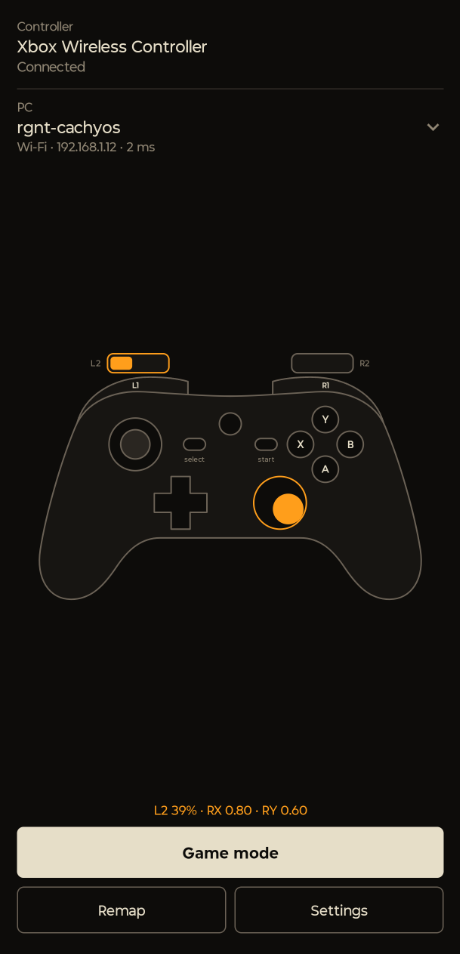
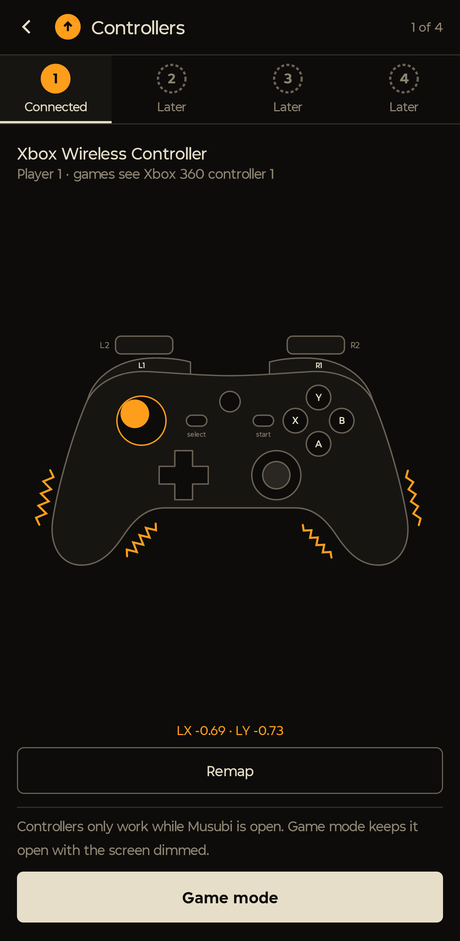
Musubi 0.7.0

diff --git a/desktop/gui.py b/desktop/gui.py
@@ -21,7 +21,7 @@ from gi.repository import Gdk, Gio, GLib, Gtk, Pango  # noqa: E402
 import system  # noqa: E402
 from tray import Tray, tray_available  # noqa: E402
 
-VERSION = '0.6.0'
+VERSION = '0.7.0'
 REPO = 'https://github.com/Multex/musubi'
 RECEIVER = Path(__file__).resolve().parent / 'musubi.py'
 BUTTON_NAMES = ['A', 'B', 'X', 'Y', 'L1', 'R1', 'Select', 'Start', 'Guide', 'L3', 'R3']

diff --git a/README.md b/README.md
@@ -13,7 +13,7 @@ Pair a Bluetooth gamepad with an Android phone, and your Linux PC gets a virtual
 <p align="center">
   <img src="docs/assets/home.png" alt="Musubi Home screen on Android showing the connected PC, 1 of 4 players, and active headphones with a 170 ms delay." width="250">
   &nbsp;
-  <img src="docs/assets/controller.png" alt="Musubi Controller screen on Android with the left trigger at 39% and the right stick tilted in amber." width="250">
+  <img src="docs/assets/controller.png" alt="Musubi Controllers page on Android: player 1 connected, the left stick tilted in amber, and rumble waves beside both grips." width="250">
   &nbsp;
   <img src="docs/assets/headphones.png" alt="Musubi Headphones screen on Android with amber level meters and wave showing sound arriving over Wi-Fi." width="250">
 </p>
@@ -99,10 +99,11 @@ python3 desktop/musubi.py 192.168.1.10
 ## Desktop app
 
 <p align="center">
-  <img src="docs/assets/desktop.png" alt="Musubi on a Linux PC: the cord sidebar on the left with an LG phone connected at 17 ms, and the live controller drawing in the center." width="700">
+  <img src="docs/assets/desktop.png" alt="Musubi on a Linux PC: the Overview page with a Motorola phone on the USB cable, 1 of 4 players connected, and sound playing on the phone with amber levels in the headphone cups." width="700">
 </p>
 
-- **Sidebar:** shows the connected phone, its link (Wi-Fi or USB cable) and ping, with pages for **Controllers** and **Sound on phone**.
+- **Sidebar:** shows the connected phone, its link (Wi-Fi or USB cable) and ping, with pages for **Overview**, **Controllers** and **Sound on phone**.
+- **Overview:** the phone, the controller and the sound at a glance. **Controllers** shows the live pad, and **Sound on phone** shows the PC's sound levels and can turn sound off from the PC.
 - **Allowed phones:** a new phone asks for your approval once. Manage them in **Settings > Manage phones**. Phones are recognized by IP, so reserve the address in your router if you can, or the phone will ask again when it changes. If you ignore or remove a phone, the waiting screen offers **Allow** for as long as that phone keeps trying to connect.
 - **Virtual controller:** it only exists while a controller is connected to the phone, so games don't see a pad you can't use.
 - **Start with my PC:** this adds a systemd user service in **Settings**. It needs a desktop session that starts `graphical-session.target`. If yours doesn't, the app shows the command to add to your desktop's startup instead.
@@ -115,6 +116,10 @@ python3 desktop/musubi.py 192.168.1.10
 </p>
 
 On the **Controllers** page, tap **Remap** and press each button as the app asks, or tap **Skip** for the ones your pad doesn't have. You can try the layout before saving it. Each controller keeps its own layout, and **Reset** goes back to the default. Sticks can't be remapped.
+
+## Vibration
+
+When a game rumbles the controller, the phone makes your real pad vibrate, with the strong and weak motors kept apart. Waves on the controller drawing show it, on the phone and on the PC. It depends on the pad: Android has to be able to vibrate it over Bluetooth. If yours can't, the Controllers page says so.
 
 ## Headphones
 
@@ -132,7 +137,6 @@ It works over Wi-Fi and the USB cable, and keeps playing when you switch between
 
 - **The controller needs the app on screen.** Android only gives controller input to the app in front, so if you leave the app, the PC releases every button after half a second. **Game mode** keeps the screen on but dim. Sound is different: it keeps playing in the background.
 - **One pad at a time.** Two pads paired with the phone would be merged into one. *(for now)* Bluetooth earbuds that pretend to be a controller for their media buttons are ignored so they don't take the controller spot.
-- **No rumble.** The PC only answers the app's pings, and nothing travels back to the pad.
 - **The guide button can't be remapped,** and it may not arrive at all, because Android can keep it for itself.
 - **One phone at a time.** If two allowed phones are on, the first one keeps the pad until it has been silent for 5 seconds.
 - **Use it only on a network you trust.** Packets are not encrypted or authenticated, and approval only checks the IP. Someone on your network who fakes an allowed phone's address could press buttons in your game.
@@ -186,6 +190,8 @@ Each controller packet is 20 bytes and holds the whole pad state: 11 button bits
 Once a second the app also sends an 8-byte ping, and the receiver echoes it back to allowed phones. That is how the app knows the PC is answering and what the round trip takes. It also sends a hello packet with the phone's model, the controller's name, that ping time, and a feature flag for sound.
 
 When the phone announces that **Play PC sound** is on, the PC loads a virtual `Musubi` output (`module-null-sink` via `pactl` in `desktop/audio.py`) and captures 48 kHz 16-bit stereo PCM in 5 ms chunks with `parec`. Each chunk goes back over the same UDP socket (or USB cable) with a 2-byte sequence number (`!4sH`). After 200 ms of silence the PC stops sending chunks until sound plays again. On the phone, an adaptive jitter buffer (`android/AudioBuffer.java`) feeds a low-latency `AudioTrack`, and a foreground service (`android/KeepAliveService.java`) keeps the sound going in the background.
+
+When a game sends force feedback to the virtual pad, the PC sends the strong and weak motor levels and the duration back to the phone (`!4sHHH`), and the phone drives the pad's motors (both motors on Android 12 and newer, one on older versions).
 
 Over a USB cable the phone uses Android Open Accessory instead of Wi-Fi. The PC asks the phone to switch modes (`desktop/cable.py`), and then the same packets travel over USB, each one starting with its length in 2 bytes.
 
